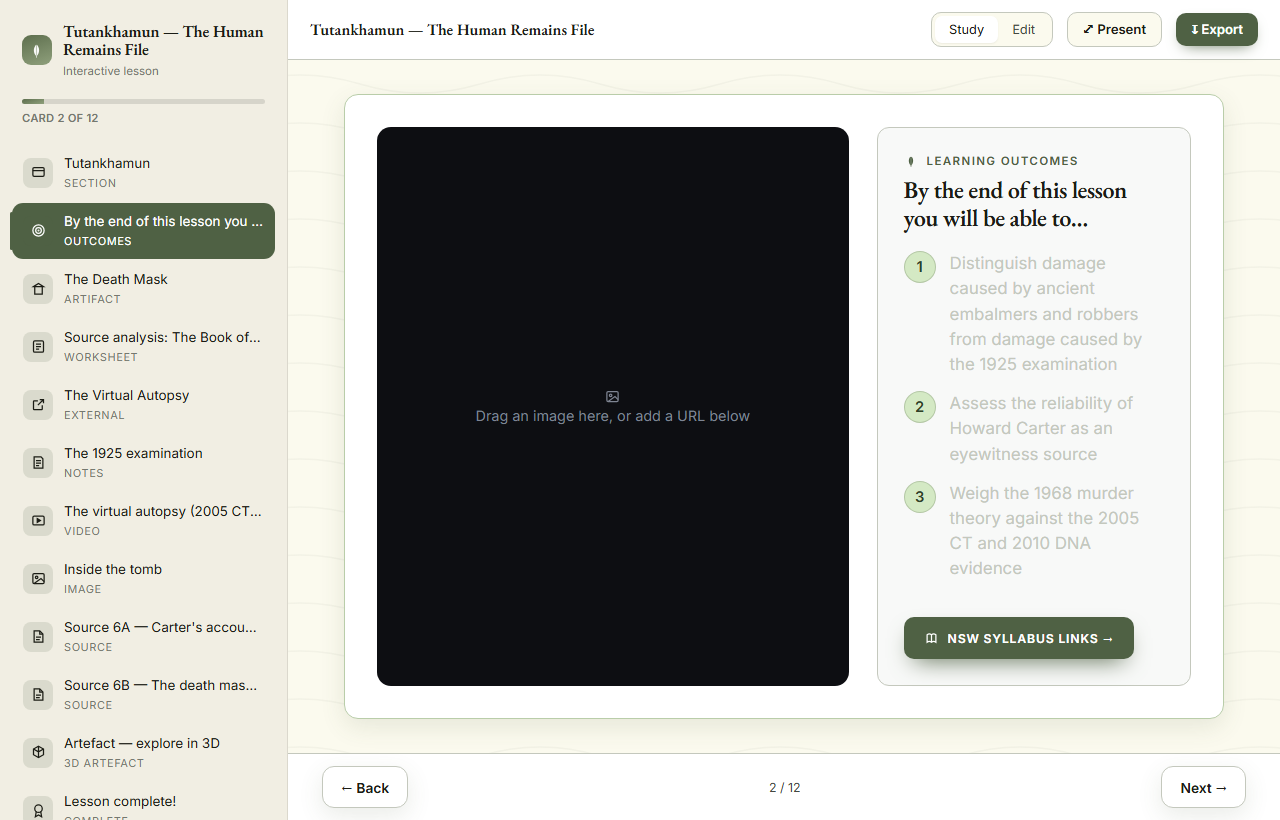
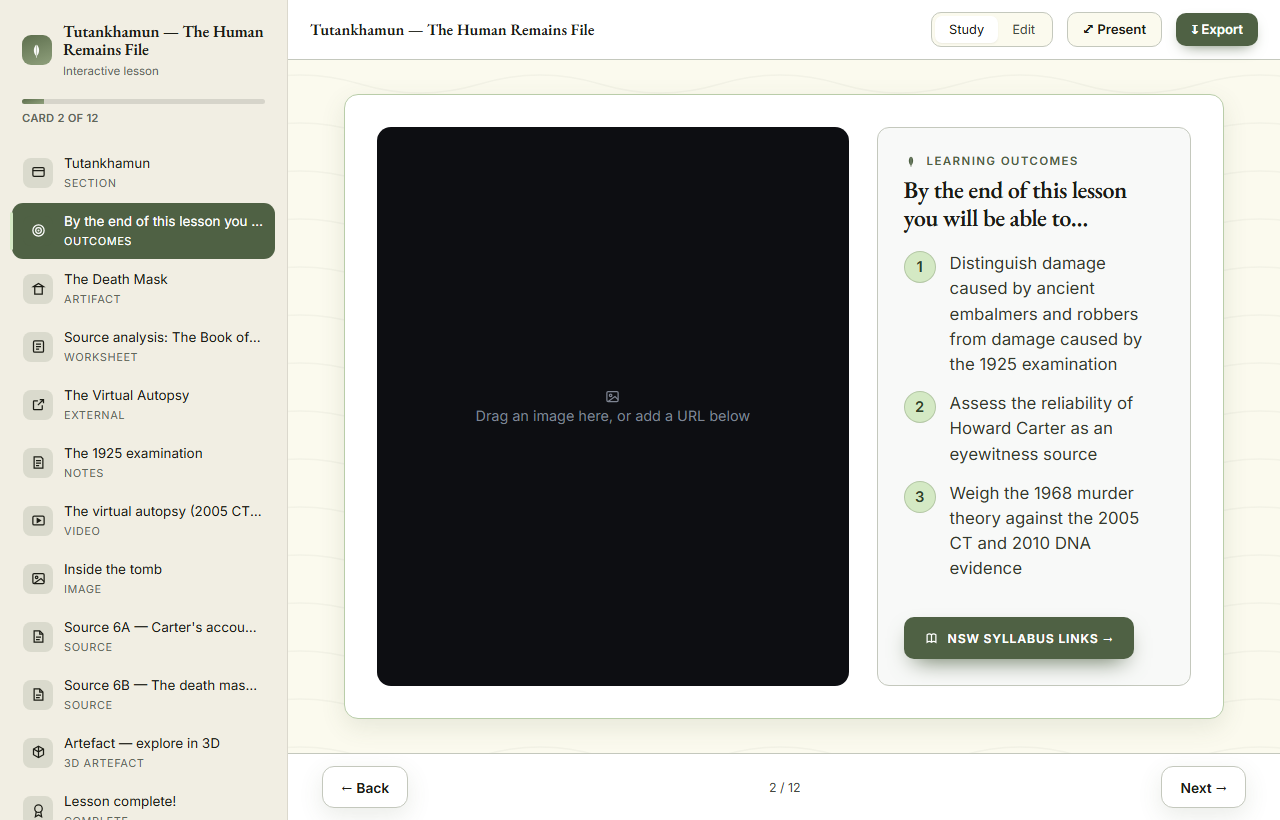
fix(theme): Wellbeing review fixes — readable body text + bullet/bar
Addresses the code-review findings (two real regressions I introduced):

- --bd contrast (HIGH): --bd is the BODY-TEXT token (12 sites: .nblock .bd,
  .srctext, .outlist/.checklist li, .art-desc, .ex-desc, .syl .syt, .qbig-disc…),
  not a border. The spec's "#c4c8bd / muted-sage card border" is the CARD BORDER
  (already handled by the scoped .card{border-color:#b9cda9}); setting --bd to it
  made all body text near-invisible on the light canvas/surface. --bd is now a
  dark sage (#353a2e) so notes/source/description/outcome text is readable.
- Checklist bullets: the topo-ring override left the base ::before checkmark MASK
  in place, clipping the ring to a broken sliver and removing the tick. Reverted —
  checkmarks stay (now sage via --ok); a true topo/leaf bullet (needs replacing
  the mask) is a polish item.
- Active nav indicator bar was invisible (its --accent equals the active fill
  --sidebar-2 here); scoped it to --accent-soft so it shows.
- Cover accent word: dark sage on the sage hero was low-contrast; it stays white
  (EB Garamond italic-600), differentiated by the italic. Sage accent words suit
  light-card headings (polish).
- Darkened --sidebar-mut #75786f → #62675a (~4.5:1 on the light rail).

Verified: validate green; body text computes dark #353a2e (notes/artifact);
checkmark bullets restored (sage, mask intact); active bar = accent-soft, active
text white; no page errors; shots refreshed; other themes unaffected.

Changed region(s): [[0.75, 0.4878, 0.9062, 0.7012], [0.75, 0.3049, 0.9062, 0.4573]]

diff --git a/lesson-studio.html b/lesson-studio.html
@@ -73,14 +73,18 @@
   /* "Terra Anima" fidelity pass. NSW Stage 5 Geography (GE5) is this theme's outcomes
      family — e.g. GE5-1/2 (environments & change), GE5-5 (sustainability), GE5-7/8 (acquires
      & communicates geographical information). Wire GE5 codes into a wellbeing sample lesson. */
-  --canvas:#fbfaee; --surface:#ffffff; --text:#1b1c15; --muted:#444840; --line:#c4c8bd; --bd:#c4c8bd;
+  --canvas:#fbfaee; --surface:#ffffff; --text:#1b1c15; --muted:#444840; --line:#c4c8bd; --bd:#353a2e;
+  /* NOTE: --bd is the body-text token (12 sites: .nblock .bd, .srctext, .outlist/.checklist li,
+     .art-desc, .ex-desc, .syl .syt…), NOT a border. The spec's "#c4c8bd / muted-sage card border"
+     is the CARD BORDER → handled by the scoped .card{border-color:#b9cda9} below; --bd stays a
+     dark sage so body text is readable on the light canvas/surface. */
   --accent:#4f6144; --accent-soft:#d4e9c4; --accent-ink:#2f4128;
   /* NOTE: spec asked accent-ink:#fff, but this token is text on LIGHT surfaces — the
      --accent-soft chips (.q-skill, .gsec.model, .syl .code, .qpill…) AND --surface/--canvas
      (.gsec.model .bd, .guide .gt). #fff is unreadable there, so it's a dark sage; white-on-
      sage chips + terracotta CTA / sky-blue pill tokens are noted for the polish pass. */
   --ok:#4f6144; --warn:#95482c;   /* sage "improve", terracotta "pitfall" — palette-true */
-  --sidebar:#f1eee3; --sidebar-2:#4f6144; --sidebar-text:#1b1c15; --sidebar-mut:#75786f;
+  --sidebar:#f1eee3; --sidebar-2:#4f6144; --sidebar-text:#1b1c15; --sidebar-mut:#62675a;   /* darkened from #75786f → ~4.5:1 on the light rail */
   /* LIGHT rail — Egypt-style dark-on-light overrides, themed sage */
   --sidebar-title:#1b1c15; --sidebar-itemtext:#1b1c15; --sidebar-hover:rgba(79,97,68,.10);
   --sidebar-sep:rgba(27,28,21,.10); --sidebar-icon:rgba(79,97,68,.14); --sidebar-track:rgba(27,28,21,.12);
@@ -95,9 +99,11 @@
 :root[data-theme="wellbeing"] .eyebrow,:root[data-theme="wellbeing"] .eyebrow2,:root[data-theme="wellbeing"] .q-skill,:root[data-theme="wellbeing"] .est,:root[data-theme="wellbeing"] .meta,:root[data-theme="wellbeing"] .prog .lab,:root[data-theme="wellbeing"] .zone-lab,:root[data-theme="wellbeing"] .gsec .lab{font-family:"Inter",system-ui,sans-serif;font-weight:600;text-transform:uppercase;}
 :root[data-theme="wellbeing"] .credit{font-family:"EB Garamond",Georgia,serif;}   /* keep the citation editorial (Inter has no italic vendored) */
 :root[data-theme="wellbeing"] .nitem.on .tx b,:root[data-theme="wellbeing"] .nitem.on .tx span{color:#fff;}   /* white text on the dark-sage active-item fill */
-:root[data-theme="wellbeing"] .cover2 h1 em{color:var(--accent);font-weight:600;}   /* the sage accent word — EB Garamond italic 600 */
+:root[data-theme="wellbeing"] .nitem.on::before{background:var(--accent-soft);}   /* visible indicator bar (here the active fill --sidebar-2 equals --accent) */
+:root[data-theme="wellbeing"] .cover2 h1 em{font-weight:600;}   /* EB Garamond italic-600 accent word; stays white on the sage hero (a sage colour would be low-contrast there) */
 :root[data-theme="wellbeing"] .card{border-color:#b9cda9;border-radius:.875rem;}   /* muted-sage card border, organic radius */
-:root[data-theme="wellbeing"] .checklist:not(.pit) li::before{background:transparent;border:2px solid var(--accent);}   /* topo-ring dots (leave .pit warn-coloured) */
+/* (the checkmark .checklist bullets keep their mask + are now sage via --ok; a true topo/leaf
+   bullet would need replacing that mask — left for the polish pass) */
 :root[data-theme="ww1"]{
   /* "Great War Archive" fidelity pass. NSW Stage 5 History (HT5) is this theme's outcomes
      code family — e.g. HT5-3 (motives/actions of past individuals & groups), HT5-5 (cause &
